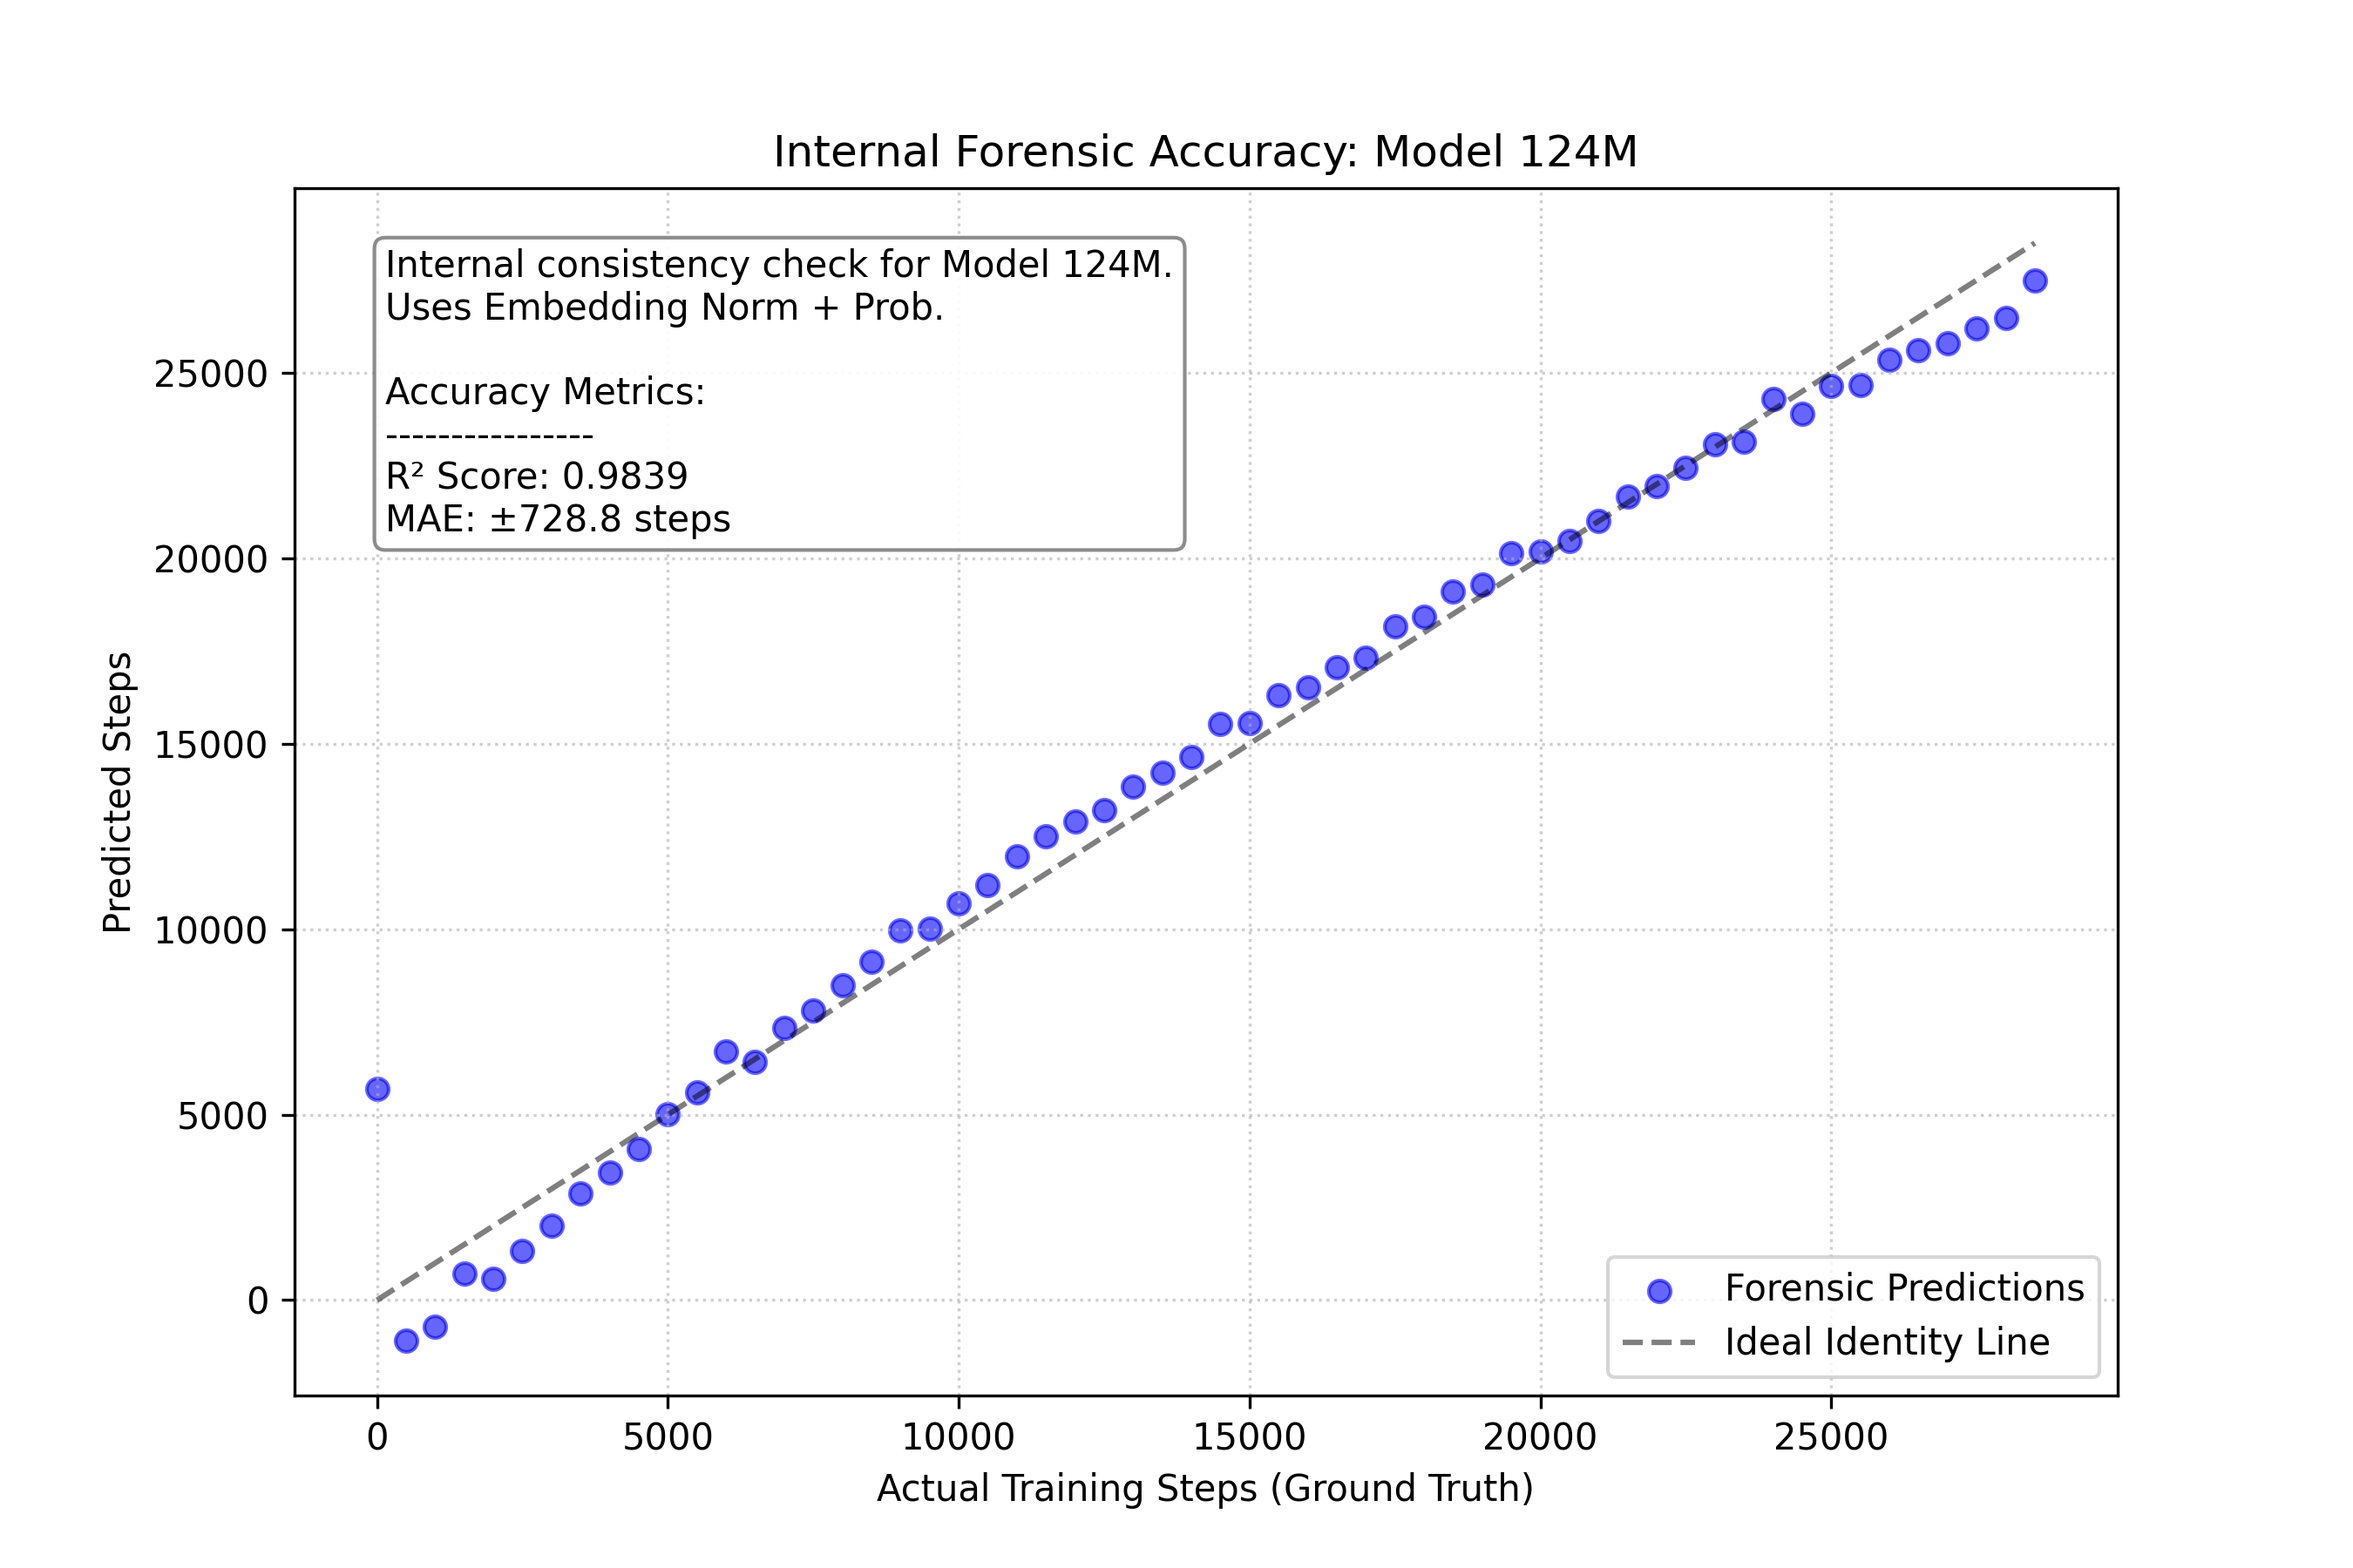
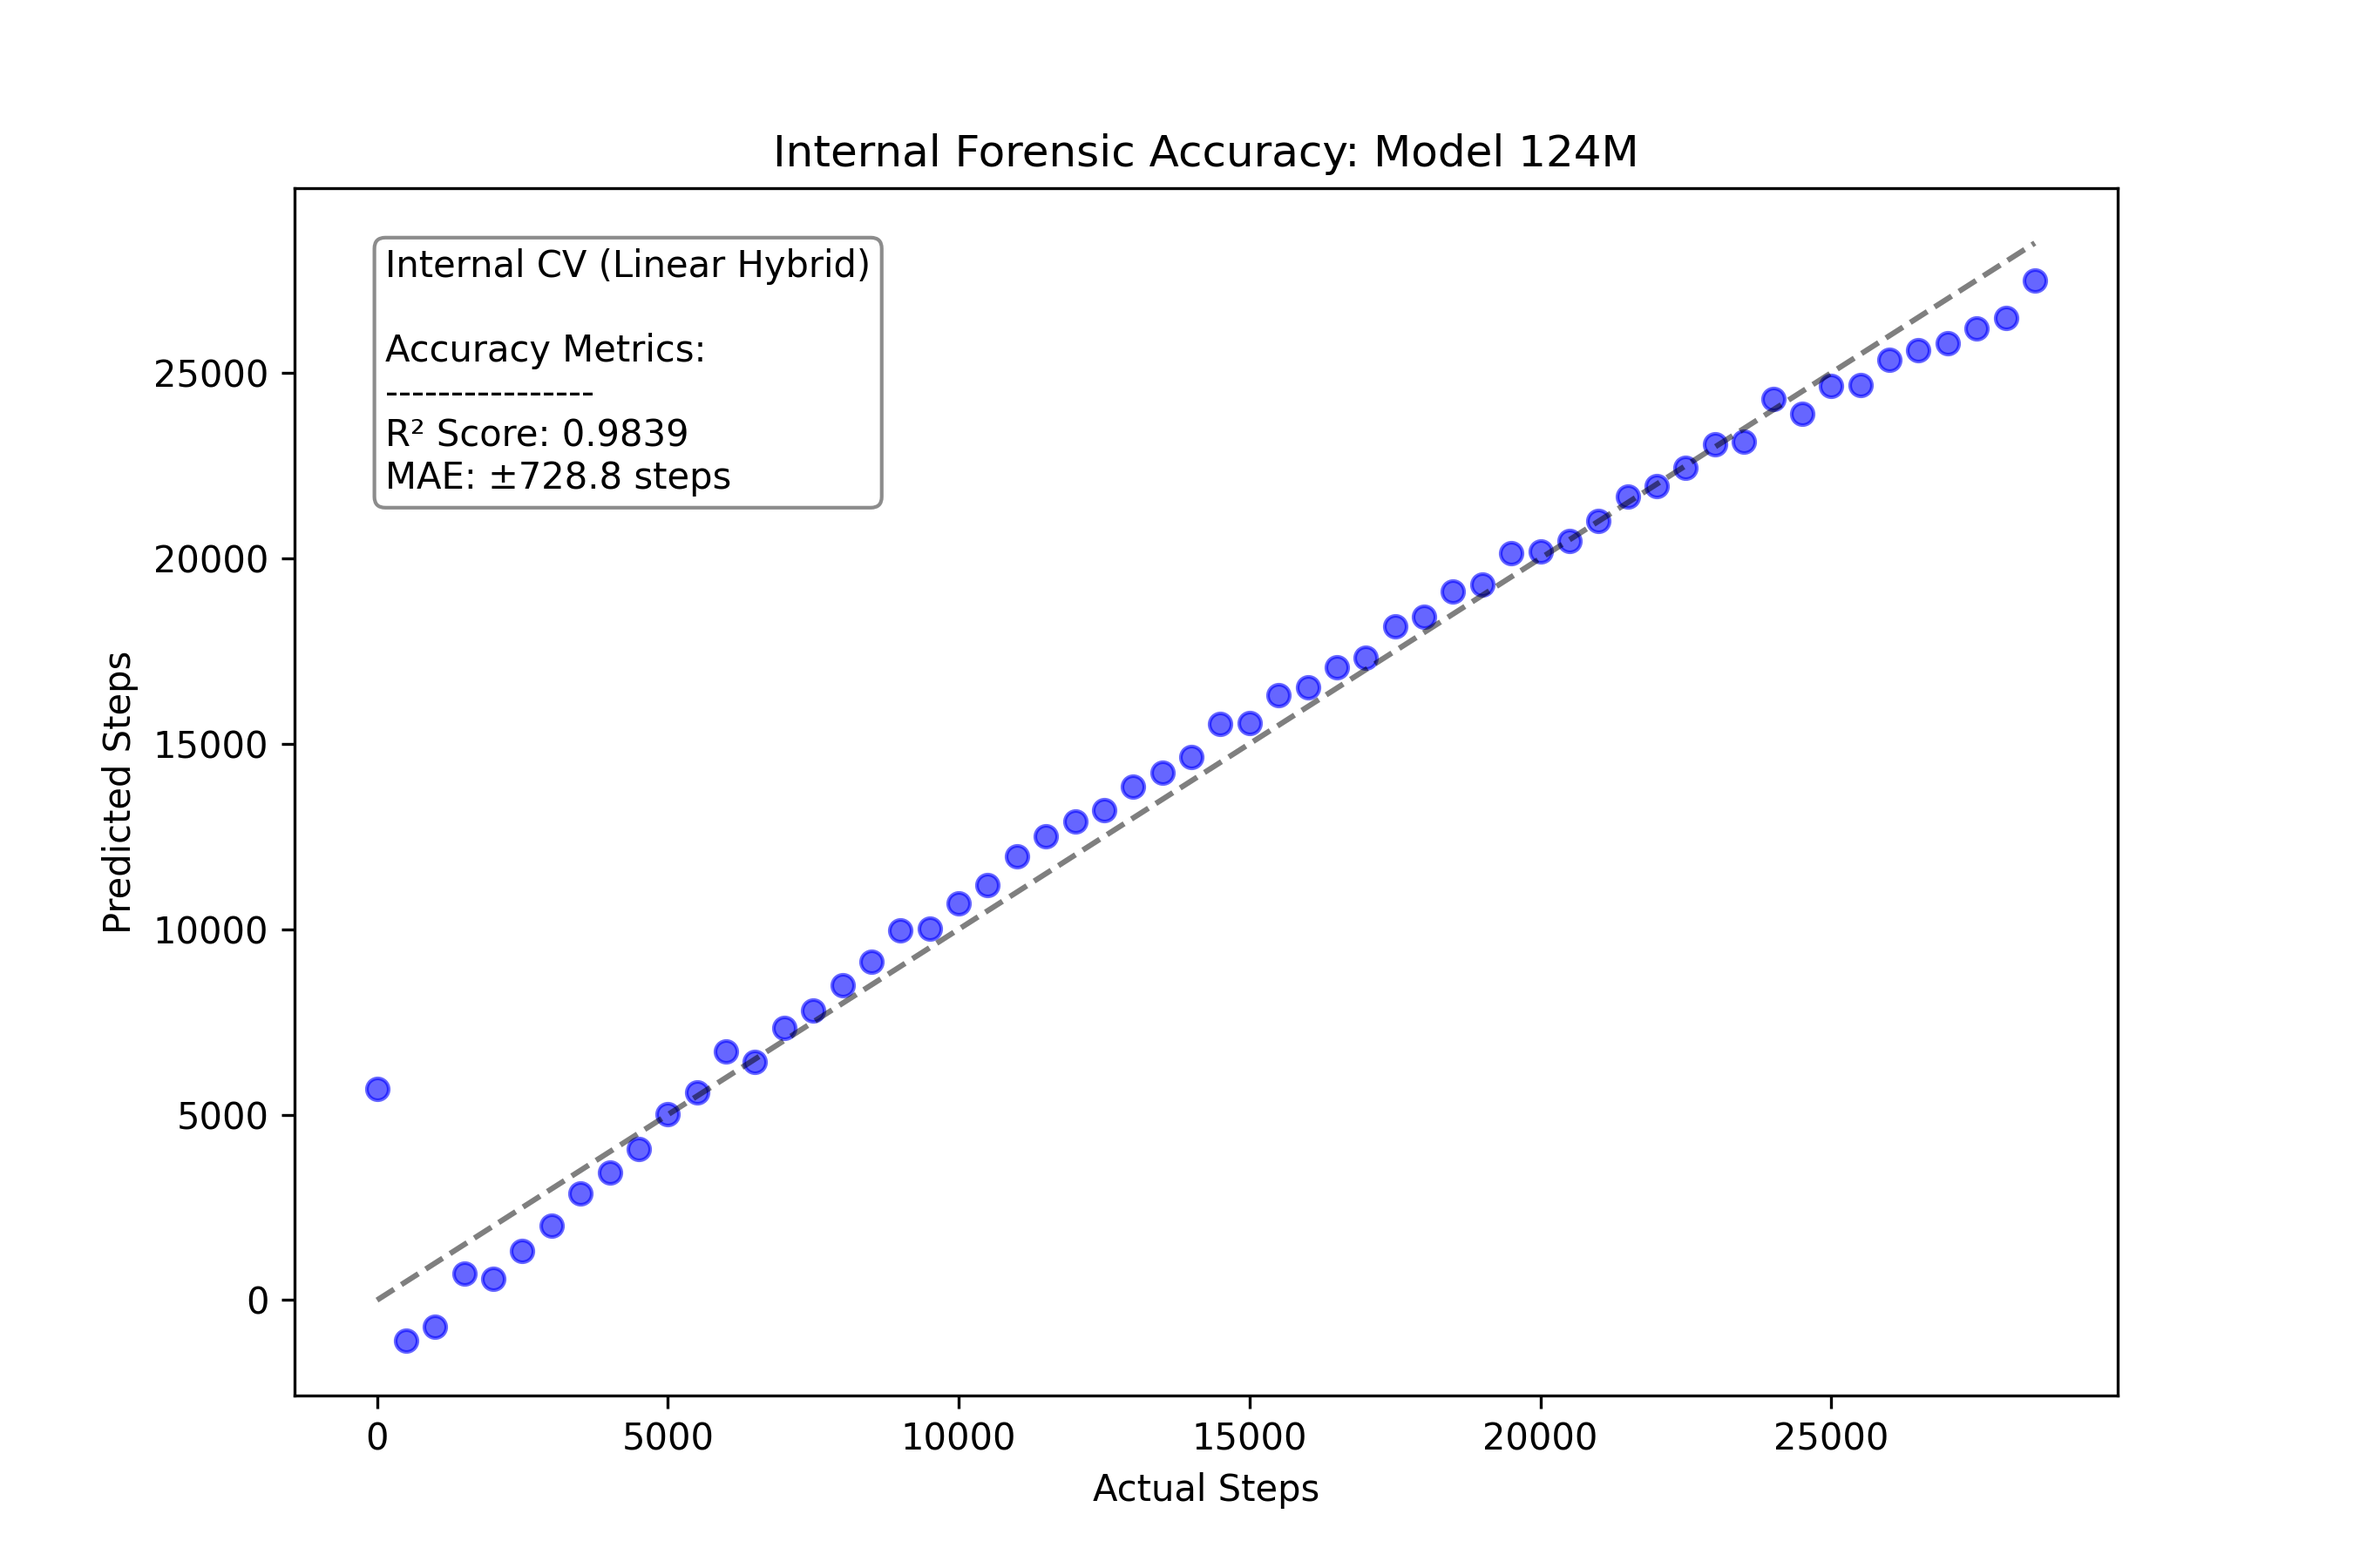
updating no gui

diff --git a/combine_features/no_gui.py b/combine_features/no_gui.py
@@ -5,6 +5,7 @@ import pandas as pd
 import numpy as np
 import os
 from sklearn.linear_model import LinearRegression
+from sklearn.neural_network import MLPRegressor
 from sklearn.preprocessing import StandardScaler
 from sklearn.pipeline import make_pipeline
 from sklearn.model_selection import cross_val_predict, KFold
@@ -32,13 +33,29 @@ EMBED_DIM_MAP = {'Model 7M': 128, 'Model 30M': 384, 'Model 124M': 768}
 MODEL_COLORS = {'Model 7M': 'red', 'Model 30M': 'green', 'Model 124M': 'blue'}
 
 # ==========================================
-# 2. MODELS
+# 2. MODELS & UTILS
 # ==========================================
 def inverse_exp_func(prob, a, b):
     return a * np.exp(b * prob)
 
+def get_mlp_model():
+    """Consistent MLP architecture for non-linear forensic mapping"""
+    return make_pipeline(
+        StandardScaler(), 
+        MLPRegressor(hidden_layer_sizes=(50, 25), max_iter=5000, 
+                     learning_rate='adaptive', random_state=42)
+    )
+
+def add_stats_box(ax, r2, mae, extra_text=""):
+    stats_text = f"Accuracy Metrics:\n----------------\nR² Score: {r2:.4f}\nMAE: ±{mae:.1f} steps"
+    if extra_text:
+        stats_text = f"{extra_text}\n\n{stats_text}"
+    
+    ax.text(0.05, 0.95, stats_text, transform=ax.transAxes, verticalalignment='top',
+            fontsize=10, bbox=dict(boxstyle='round', facecolor='white', alpha=0.9, edgecolor='gray'))
+
 # ==========================================
-# 3. HELPERS
+# 3. DATA HELPERS
 # ==========================================
 def load_and_merge_data():
     if not os.path.exists(FEATURE_CSV) or not os.path.exists(PROB_CSV):
@@ -57,15 +74,6 @@ def scale_features(df_subset):
             df_scaled.loc[mask, 'embedding_norm'] = df_scaled.loc[mask, 'embedding_norm'] / np.sqrt(n_embd)
     return df_scaled
 
-def add_stats_box(ax, r2, mae, extra_text=""):
-    """Adds a prominent box with R^2 and MAE metrics"""
-    stats_text = f"Accuracy Metrics:\n----------------\nR² Score: {r2:.4f}\nMAE: ±{mae:.1f} steps"
-    if extra_text:
-        stats_text = f"{extra_text}\n\n{stats_text}"
-    
-    ax.text(0.05, 0.95, stats_text, transform=ax.transAxes, verticalalignment='top',
-            fontsize=10, bbox=dict(boxstyle='round', facecolor='white', alpha=0.9, edgecolor='gray'))
-
 # ==========================================
 # 4. PLOT GENERATION
 # ==========================================
@@ -75,91 +83,70 @@ def generate_all_plots():
         print("❌ Error: CSV files missing!")
         return
 
-    # --- 1-3: Internal Joint Prediction (CV) ---
+    # --- 1-3: Internal Joint Prediction (CV - Linear) ---
     for model_name in ['Model 7M', 'Model 30M', 'Model 124M']:
         subset = df[df['Model'] == model_name].sort_values('Step')
         if subset.empty: continue
-        
-        X = subset[['embedding_norm', 'Avg_Probability']].values
-        y = subset['Step'].values
-        
+        X, y = subset[['embedding_norm', 'Avg_Probability']].values, subset['Step'].values
         model = make_pipeline(StandardScaler(), LinearRegression())
         y_pred = cross_val_predict(model, X, y, cv=KFold(5, shuffle=True, random_state=42))
         
-        r2 = r2_score(y, y_pred)
-        mae = mean_absolute_error(y, y_pred)
-        
         fig, ax = plt.subplots(figsize=(9, 6))
-        ax.scatter(y, y_pred, color=MODEL_COLORS[model_name], alpha=0.6, label='Forensic Predictions')
-        ax.plot([y.min(), y.max()], [y.min(), y.max()], 'k--', alpha=0.5, label='Ideal Identity Line')
-        
+        ax.scatter(y, y_pred, color=MODEL_COLORS[model_name], alpha=0.6)
+        ax.plot([y.min(), y.max()], [y.min(), y.max()], 'k--', alpha=0.5)
         ax.set_title(f"Internal Forensic Accuracy: {model_name}")
-        ax.set_xlabel("Actual Training Steps (Ground Truth)")
+        ax.set_xlabel("Actual Steps")
         ax.set_ylabel("Predicted Steps")
-        
-        add_stats_box(ax, r2, mae, f"Internal consistency check for {model_name}.\nUses Embedding Norm + Prob.")
-        
-        ax.legend(loc='lower right')
-        ax.grid(True, linestyle=':', alpha=0.6)
+        add_stats_box(ax, r2_score(y, y_pred), mean_absolute_error(y, y_pred), "Internal CV (Linear Hybrid)")
         plt.savefig(os.path.join(OUTPUT_DIR, f"cv_internal_{model_name.replace(' ', '_')}.png"), dpi=300)
         plt.close()
 
-    # --- 4-6: Zero-Shot Generalization ---
+    # --- Zero-Shot Setup ---
     df_scaled = scale_features(df)
     train = df_scaled[df_scaled['Model'].isin(['Model 7M', 'Model 30M'])]
     test = df_scaled[df_scaled['Model'] == 'Model 124M']
-    
-    if not train.empty and not test.empty:
-        y_test_actual = test['Step'].values
+    y_test_actual = test['Step'].values
 
-        # A) Embedding Norm Only
-        model = make_pipeline(StandardScaler(), LinearRegression())
-        model.fit(train[['embedding_norm']].values, train['Step'].values)
-        y_pred_norm = model.predict(test[['embedding_norm']].values)
+    # --- 4-9: Zero-Shot Variants (Standard vs MLP) ---
+    # Using a loop here makes the code shorter but more powerful
+    scenarios = [
+        (['embedding_norm'], "Linear", "zs_only_emb_norm.png"),
+        (['Avg_Probability'], "Exponential", "zs_only_prob.png"),
+        (['embedding_norm', 'Avg_Probability'], "Linear", "zs_combined_features.png")
+    ]
+
+    for cols, mode, filename in scenarios:
+        # A) Standard/Best Fit (Linear or Exponential)
+        if mode == "Exponential":
+            popt, _ = curve_fit(inverse_exp_func, train[cols[0]].values, train['Step'].values, maxfev=10000)
+            y_pred = inverse_exp_func(test[cols[0]].values, *popt)
+        else:
+            model = make_pipeline(StandardScaler(), LinearRegression())
+            model.fit(train[cols].values, train['Step'].values)
+            y_pred = model.predict(test[cols].values)
         
         fig, ax = plt.subplots(figsize=(9, 6))
-        r2_n, mae_n = r2_score(y_test_actual, y_pred_norm), mean_absolute_error(y_test_actual, y_pred_norm)
-        ax.scatter(y_test_actual, y_pred_norm, color='purple', alpha=0.6)
+        ax.scatter(y_test_actual, y_pred, color='blue', alpha=0.6)
         ax.plot([y_test_actual.min(), y_test_actual.max()], [y_test_actual.min(), y_test_actual.max()], 'r--')
-        ax.set_title("Zero-Shot: Embedding Norm Only (Linear)")
-        ax.set_xlabel("Actual Steps (124M)")
-        ax.set_ylabel("Predicted Steps")
-        add_stats_box(ax, r2_n, mae_n, "Knowledge transfer via Scaling Laws.\nFeature: Embedding Norm.")
-        plt.savefig(os.path.join(OUTPUT_DIR, "zs_only_emb_norm.png"), dpi=300)
+        ax.set_title(f"Zero-Shot: {', '.join(cols)} ({mode})")
+        add_stats_box(ax, r2_score(y_test_actual, y_pred), mean_absolute_error(y_test_actual, y_pred), f"Model: {mode}")
+        plt.savefig(os.path.join(OUTPUT_DIR, filename), dpi=300)
         plt.close()
 
-        # B) Probability Only (Exponential)
-        popt, _ = curve_fit(inverse_exp_func, train['Avg_Probability'].values, train['Step'].values, maxfev=10000)
-        y_pred_prob = inverse_exp_func(test['Avg_Probability'].values, *popt)
+        # B) MLP Fit
+        mlp = get_mlp_model()
+        mlp.fit(train[cols].values, train['Step'].values)
+        y_pred_mlp = mlp.predict(test[cols].values)
         
         fig, ax = plt.subplots(figsize=(9, 6))
-        r2_p, mae_p = r2_score(y_test_actual, y_pred_prob), mean_absolute_error(y_test_actual, y_pred_prob)
-        ax.scatter(y_test_actual, y_pred_prob, color='orange', alpha=0.6)
+        ax.scatter(y_test_actual, y_pred_mlp, color='darkgreen', alpha=0.6)
         ax.plot([y_test_actual.min(), y_test_actual.max()], [y_test_actual.min(), y_test_actual.max()], 'r--')
-        ax.set_title("Zero-Shot: Next-Token Probability Only (Exponential)")
-        ax.set_xlabel("Actual Steps (124M)")
-        ax.set_ylabel("Predicted Steps")
-        add_stats_box(ax, r2_p, mae_p, "Generalization via training dynamics.\nFeature: Next-Token Probability.")
-        plt.savefig(os.path.join(OUTPUT_DIR, "zs_only_prob.png"), dpi=300)
-        plt.close()
-
-        # C) Combined Features (Linear Joint)
-        model = make_pipeline(StandardScaler(), LinearRegression())
-        model.fit(train[['embedding_norm', 'Avg_Probability']].values, train['Step'].values)
-        y_pred_comb = model.predict(test[['embedding_norm', 'Avg_Probability']].values)
-        
-        fig, ax = plt.subplots(figsize=(9, 6))
-        r2_c, mae_c = r2_score(y_test_actual, y_pred_comb), mean_absolute_error(y_test_actual, y_pred_comb)
-        ax.scatter(y_test_actual, y_pred_comb, color='black', alpha=0.6)
-        ax.plot([y_test_actual.min(), y_test_actual.max()], [y_test_actual.min(), y_test_actual.max()], 'r--')
-        ax.set_title("Zero-Shot: Joint Prediction (Combined)")
-        ax.set_xlabel("Actual Steps (124M)")
-        ax.set_ylabel("Predicted Steps")
-        add_stats_box(ax, r2_c, mae_c, "Predicting 124M age using multi-modal\nsignals from smaller models.")
-        plt.savefig(os.path.join(OUTPUT_DIR, "zs_combined_features.png"), dpi=300)
+        ax.set_title(f"Zero-Shot: {', '.join(cols)} (MLP Regressor)")
+        add_stats_box(ax, r2_score(y_test_actual, y_pred_mlp), mean_absolute_error(y_test_actual, y_pred_mlp), "Model: MLP (Neural Network)")
+        plt.savefig(os.path.join(OUTPUT_DIR, f"zs_mlp_{filename}"), dpi=300)
         plt.close()
 
 if __name__ == "__main__":
-    print(f"🚀 Generating forensic plots with R² and MAE stats...")
+    print(f"🚀 Running Analysis: 9 Plots Total (CV + Zero-Shot + MLP)...")
     generate_all_plots()
     print(f"✅ Success. Results available in 'no_gui' folder.")
